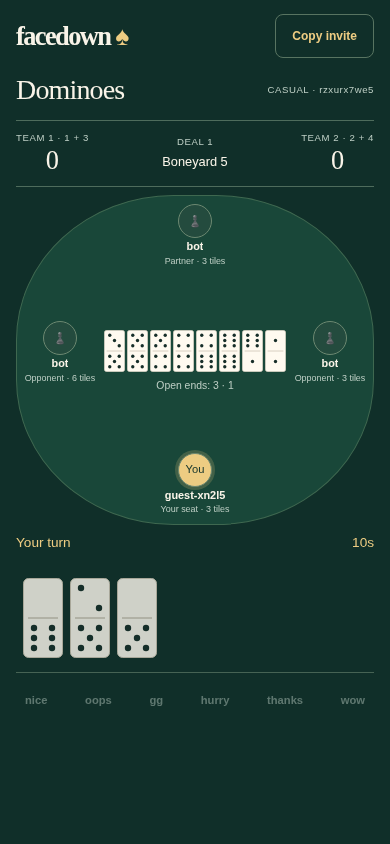
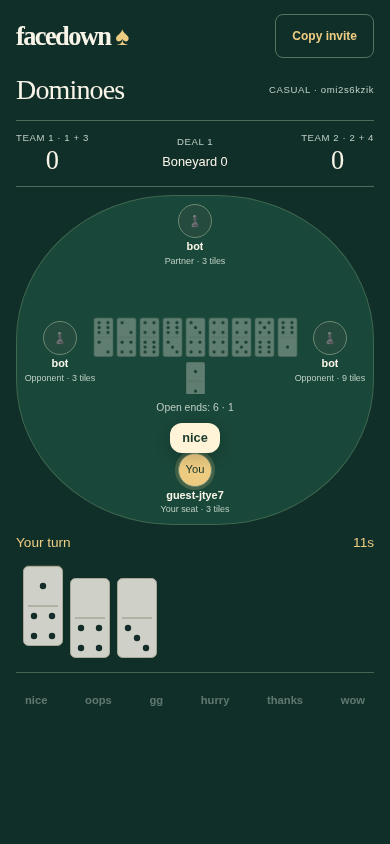
fix: preserve account ownership after M4 rebase

diff --git a/src/server/http/index.ts b/src/server/http/index.ts
@@ -1,5 +1,3 @@
-import { realpath, stat } from "node:fs/promises";
-import { resolve, sep } from "node:path";
 import type { Server } from "bun";
 import type { Store } from "../store";
 import type { Tables } from "../tables";
@@ -8,6 +6,7 @@ import type { SocketData } from "../ws";
 import type { SessionSockets } from "../ws/sessions";
 import { Auth, identity } from "./auth";
 import type { SessionResolver } from "./sessions";
+import { staticFile } from "./static";
 
 const json = (value: unknown, status = 200, headers?: HeadersInit) =>
   Response.json(value, { status, headers });
@@ -162,70 +161,4 @@ export function handler(
       );
     }
   };
-}
-
-// Only files inside the built client are public; API misses never reach this route.
-export async function staticFile(path: string, root = resolve("dist/client")) {
-  let decoded: string;
-  try {
-    decoded = decodeURIComponent(path);
-  } catch {
-    return new Response("Not found", { status: 404 });
-  }
-  if (decoded.includes("\0")) return new Response("Not found", { status: 404 });
-  root = resolve(root);
-  const target = resolve(root, `.${decoded}`);
-  if (!target.startsWith(`${root}${sep}`) && target !== root)
-    return new Response("Not found", { status: 404 });
-  const asset = decoded.startsWith("/assets/");
-  const canonicalRoot = await realpath(root).catch(() => null);
-  async function fileAt(path: string) {
-    const canonical = await realpath(path).catch(() => null);
-    if (!canonical || !canonicalRoot) return null;
-    if (
-      canonical !== canonicalRoot &&
-      !canonical.startsWith(`${canonicalRoot}${sep}`)
-    )
-      throw new Fault("not_found");
-    return (await stat(canonical)).isFile() ? Bun.file(canonical) : null;
-  }
-  let file: ReturnType<typeof Bun.file> | null;
-  try {
-    file = await fileAt(target);
-  } catch (error) {
-    if (error instanceof Fault)
-      return new Response("Not found", { status: 404 });
-    throw error;
-  }
-  if (file)
-    return new Response(file, {
-      headers: {
-        "cache-control":
-          asset && /-[\w-]{8,}\.[\w]+$/.test(decoded)
-            ? "public, max-age=31536000, immutable"
-            : "no-store",
-      },
-    });
-  if (asset || /\.[a-z0-9]+$/i.test(decoded))
-    return new Response("Not found", { status: 404 });
-  let index: ReturnType<typeof Bun.file> | null;
-  try {
-    index = await fileAt(resolve(root, "index.html"));
-  } catch (error) {
-    if (error instanceof Fault)
-      return new Response("Not found", { status: 404 });
-    throw error;
-  }
-  return index
-    ? new Response(index, { headers: { "cache-control": "no-store" } })
-    : new Response(
-        "<!doctype html><title>facedown</title><p>Client not built. Run bun run build.</p>",
-        {
-          status: 503,
-          headers: {
-            "content-type": "text/html; charset=utf-8",
-            "cache-control": "no-store",
-          },
-        },
-      );
 }

diff --git a/src/server/http/static.ts b/src/server/http/static.ts
@@ -1,0 +1,69 @@
+import { realpath, stat } from "node:fs/promises";
+import { resolve, sep } from "node:path";
+import { Fault } from "../tables/types";
+
+// Only files inside the built client are public; API misses never reach this route.
+export async function staticFile(path: string, root = resolve("dist/client")) {
+  let decoded: string;
+  try {
+    decoded = decodeURIComponent(path);
+  } catch {
+    return new Response("Not found", { status: 404 });
+  }
+  if (decoded.includes("\0")) return new Response("Not found", { status: 404 });
+  root = resolve(root);
+  const target = resolve(root, `.${decoded}`);
+  if (!target.startsWith(`${root}${sep}`) && target !== root)
+    return new Response("Not found", { status: 404 });
+  const asset = decoded.startsWith("/assets/");
+  const canonicalRoot = await realpath(root).catch(() => null);
+  async function fileAt(path: string) {
+    const canonical = await realpath(path).catch(() => null);
+    if (!canonical || !canonicalRoot) return null;
+    if (
+      canonical !== canonicalRoot &&
+      !canonical.startsWith(`${canonicalRoot}${sep}`)
+    )
+      throw new Fault("not_found");
+    return (await stat(canonical)).isFile() ? Bun.file(canonical) : null;
+  }
+  let file: ReturnType<typeof Bun.file> | null;
+  try {
+    file = await fileAt(target);
+  } catch (error) {
+    if (error instanceof Fault)
+      return new Response("Not found", { status: 404 });
+    throw error;
+  }
+  if (file)
+    return new Response(file, {
+      headers: {
+        "cache-control":
+          asset && /-[\w-]{8,}\.[\w]+$/.test(decoded)
+            ? "public, max-age=31536000, immutable"
+            : "no-store",
+      },
+    });
+  if (asset || /\.[a-z0-9]+$/i.test(decoded))
+    return new Response("Not found", { status: 404 });
+  let index: ReturnType<typeof Bun.file> | null;
+  try {
+    index = await fileAt(resolve(root, "index.html"));
+  } catch (error) {
+    if (error instanceof Fault)
+      return new Response("Not found", { status: 404 });
+    throw error;
+  }
+  return index
+    ? new Response(index, { headers: { "cache-control": "no-store" } })
+    : new Response(
+        "<!doctype html><title>facedown</title><p>Client not built. Run bun run build.</p>",
+        {
+          status: 503,
+          headers: {
+            "content-type": "text/html; charset=utf-8",
+            "cache-control": "no-store",
+          },
+        },
+      );
+}

diff --git a/test/browser/review.spec.ts b/test/browser/review.spec.ts
@@ -112,4 +112,37 @@ if (process.env.FACEDOWN_BROWSER === "1") {
       ),
     ).toBe(true);
   });
+  test("M4 logout closes the socket and recovers without reloading", async ({
+    page,
+    context,
+    origin,
+  }) => {
+    const registered = await context.request.post(`${origin}/api/register`, {
+      headers: { origin },
+      data: { username: "logout_tester", password: "test-password-123" },
+    });
+    expect(registered.status()).toBe(201);
+    await page.goto(origin);
+    await page.getByRole("button", { name: /Spades.*Open a table/ }).click();
+    await page.getByRole("button", { name: "Fill bots" }).click();
+    await page.getByRole("button", { name: "Start game" }).click();
+    const before = await page.evaluate(() => performance.timeOrigin);
+    expect(
+      await page.evaluate(() =>
+        fetch("/api/logout", { method: "POST" }).then((r) => r.status),
+      ),
+    ).toBe(204);
+    await expect(
+      page.getByText("You were signed out of this seat. You are spectating.", {
+        exact: true,
+      }),
+    ).toBeVisible({ timeout: 15000 });
+    await expect(page.locator(".turn")).toContainText("Spectating");
+    await expect(page.getByText("Reconnecting…", { exact: true })).toBeHidden();
+    await expect(page.locator(".piece")).toHaveCount(0);
+    expect(await page.evaluate(() => performance.timeOrigin)).toBe(before);
+    await page.getByRole("link", { name: "facedown♠" }).click();
+    await page.getByRole("button", { name: /Dominoes.*Open a table/ }).click();
+    await expect(page.getByRole("button", { name: "Fill bots" })).toBeVisible();
+  });
 }

diff --git a/test/browser/server.test.ts b/test/browser/server.test.ts
@@ -53,3 +53,29 @@ test("host identity follows the receiving session across tabs and spectator view
     await f.stop();
   }
 });
+
+test("the account that owns the host seat keeps controls on another session", async () => {
+  const f = fixture();
+  try {
+    const credentials = {
+      username: "host_account",
+      password: "test-password-123",
+    };
+    const registered = await f.request("/api/register", "", credentials);
+    const host = registered.headers.get("set-cookie")?.split(";")[0] as string;
+    const { id } = await (
+      await f.request("/api/tables", host, { type: "spades" })
+    ).json();
+    await f.connect(host, { seat: 0 }, id);
+    const loggedIn = await f.request("/api/login", "", credentials);
+    const cookie = loggedIn.headers.get("set-cookie")?.split(";")[0] as string;
+    expect(cookie).not.toBe(host);
+    const second = await f.connect(cookie, { seat: 0 }, id);
+    expect((await second.view(0)).host).toBe(true);
+    expect((await f.request(`/api/tables/${id}/bots`, cookie, {})).status).toBe(
+      200,
+    );
+  } finally {
+    await f.stop();
+  }
+});

diff --git a/client/src/Table.svelte b/client/src/Table.svelte
@@ -86,7 +86,6 @@ function subscribe(next: number | null) {
 async function control(action: string) {
   try {
     await api(`/tables/${id}/${action}`, {});
-    if (action === "start" && table) table.status = "live";
   } catch (e) {
     error = (e as Error).message;
   }
@@ -146,7 +145,7 @@ onMount(() => {
   </header>
   <div class="game-heading">
     <h1>{table?.type === "dominoes" ? "Dominoes" : "Spades"}</h1>
-    <small>CASUAL · {id}</small>
+    <small>{message?.rated ? "RATED" : "CASUAL"} · {id}</small>
   </div>
   {#if !up && table}
     <p class="banner" role="status">Reconnecting…</p>
@@ -163,7 +162,7 @@ onMount(() => {
     {/if}
     {#if over}
       <p class="banner">Game over · Final scores {view.scores.join(" / ")}</p>
-    {:else if table?.status === "open" && !message.deadline}
+    {:else if message.status === "open"}
       <div class="controls">
         {#if message.host}
           <button onclick={() => control("bots")}>Fill bots</button>

diff --git a/src/server/tables/lifecycle.ts b/src/server/tables/lifecycle.ts
@@ -3,6 +3,7 @@ import type { Clock, Timing } from "../clock";
 import type { Store } from "../store";
 import {
   Fault,
+  owns,
   type Peer,
   publicSeats,
   ratedIfStarted,
@@ -56,7 +57,11 @@ export class Lifecycle {
           : (table.rated ?? false),
       table: table.id,
       seq: table.seq,
-      host: table.host === peer.session.id,
+      host:
+        table.host === peer.session.id ||
+        table.seats.some(
+          (s) => s?.session === table.host && owns(s, peer.session),
+        ),
       view: table.game.view(table.state, viewer),
       toAct: table.status === "open" ? null : table.game.toAct(table.state),
       deadline: table.deadline,

diff --git a/test/browser/static.test.ts b/test/browser/static.test.ts
@@ -2,7 +2,7 @@ import { afterAll, expect, test } from "bun:test";
 import { mkdtempSync, rmSync } from "node:fs";
 import { tmpdir } from "node:os";
 import { join } from "node:path";
-import { staticFile } from "../../src/server/http";
+import { staticFile } from "../../src/server/http/static";
 
 const root = mkdtempSync(join(tmpdir(), "facedown-static-"));
 await Bun.write(

diff --git a/client/src/api.ts b/client/src/api.ts
@@ -18,6 +18,8 @@ export type ViewMessage = {
   seats: Seat[];
   commitment: string;
   host: boolean;
+  status: "open" | "live" | "finished" | "unavailable";
+  rated: boolean;
 };
 class ApiError extends Error {
   constructor(
